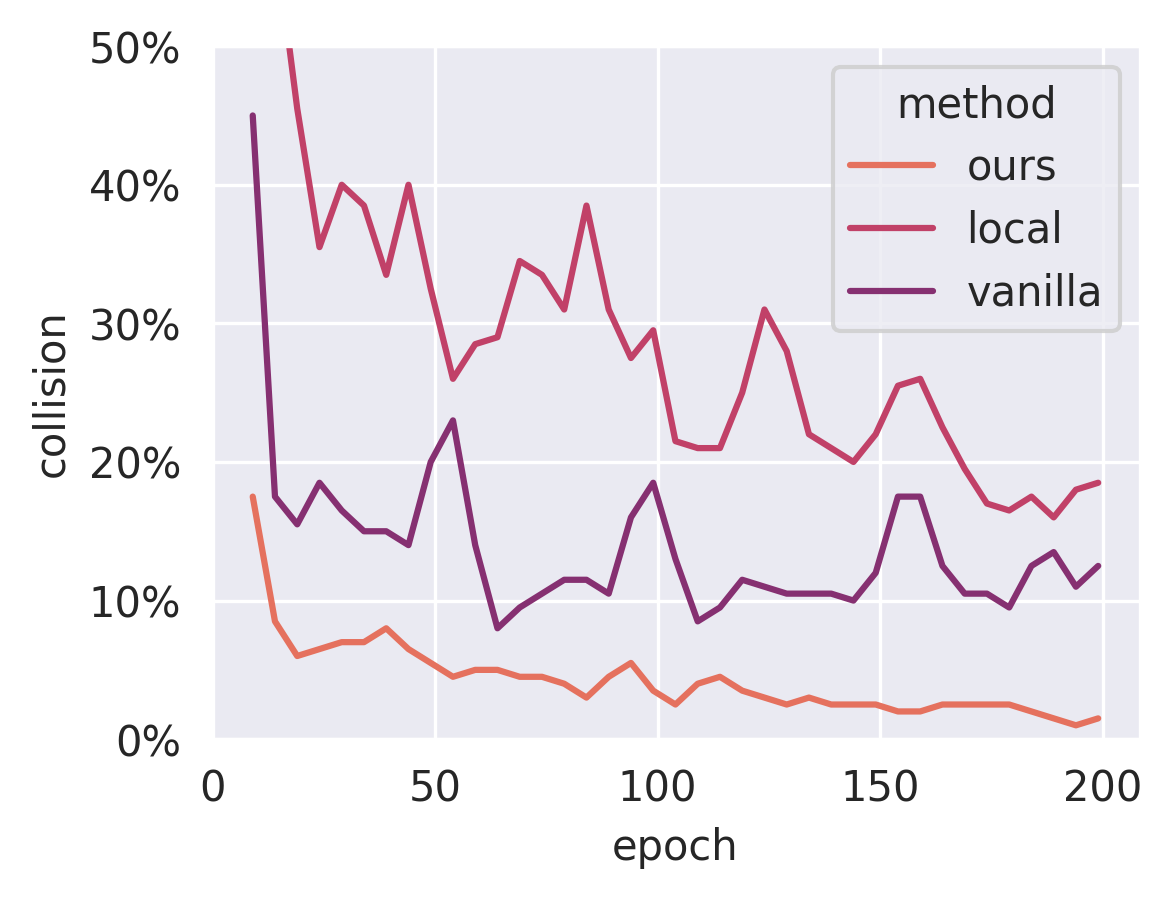
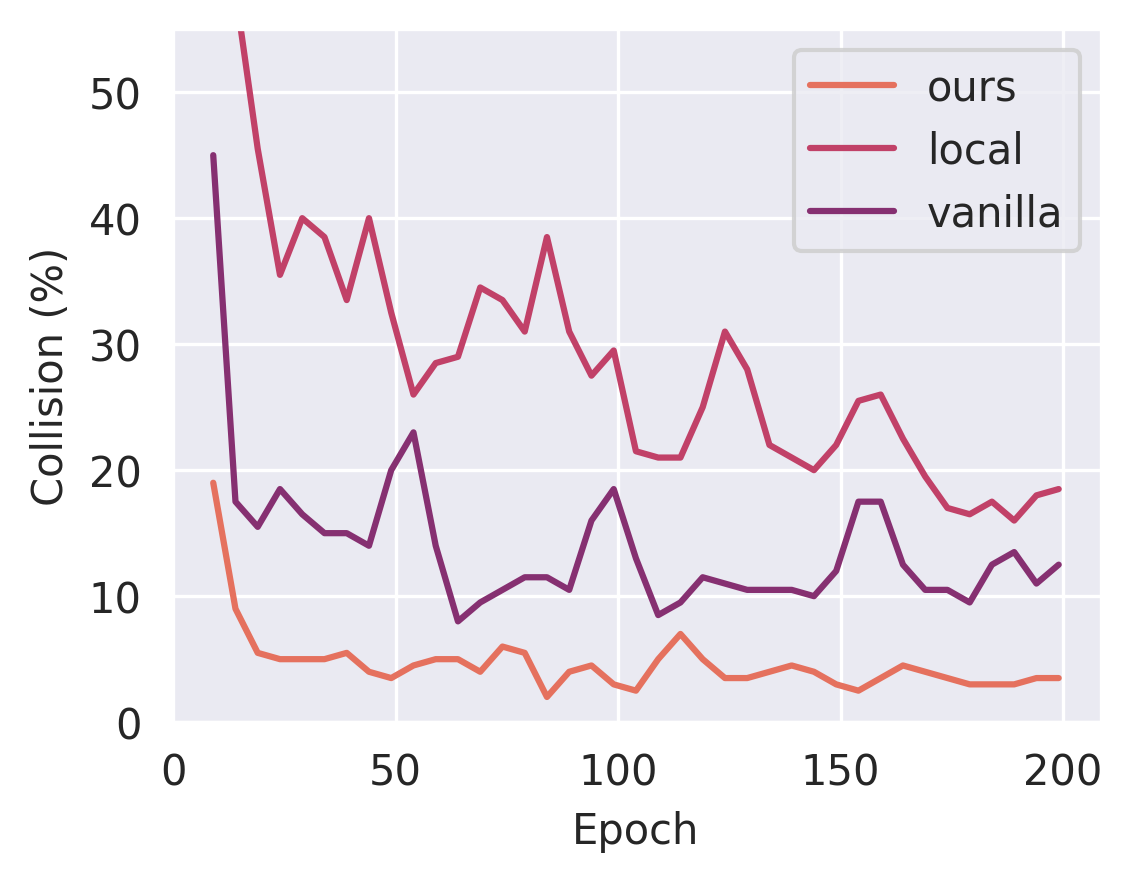
Add bash scripts

diff --git a/crowd_nav/utils/compare.py b/crowd_nav/utils/compare.py
@@ -1,0 +1,73 @@
+import argparse
+import os
+import pandas as pd
+import seaborn as sns
+import matplotlib
+matplotlib.use('Agg')
+
+
+def parse_arguments():
+    parser = argparse.ArgumentParser('Parse configuration file')
+    parser.add_argument('--foldername', type=str, default='data/output/')
+    parser.add_argument('--figtype', type=str, default='.png')
+    parser.add_argument('--ma_window', type=int, default=2)
+    return parser.parse_args()
+
+
+def extract_subfolder(foldername):
+    listfolder = [f.path for f in os.scandir(foldername) if f.is_dir()]
+    return listfolder
+
+
+def compare_curve(listdir, window):
+    df = pd.DataFrame([])
+    for subfolder in listdir:
+        df_sub = pd.read_csv(subfolder+'/test_result.txt', sep=',', skipinitialspace=True)
+        df_sub['reward_mean'] = df_sub['reward'].rolling(window).mean()
+        df_sub['collision_mean'] = df_sub['collision'].rolling(window).mean()
+        df_sub['reward_std'] = df_sub['reward'].rolling(window).std()
+        df_sub['collision_std'] = df_sub['collision'].rolling(window).std()
+        name = subfolder.split('-')[1]
+        if name == 'event': name = 'ours'
+        df_sub['method'] = name
+        df = df.append(df_sub)
+
+    sns.set_style("darkgrid")
+
+    # fig 1
+    reward_plot = sns.lineplot(
+        data=df,
+        x="epoch", y="reward_mean", hue="method",
+        markers=False, dashes=False, palette="flare"
+    )
+    reward_plot.set(xlabel='Epoch', ylabel='Reward')
+    reward_plot.legend_.set_title(None)
+
+    figname = args.foldername + 'reward' + args.figtype
+    fig = reward_plot.get_figure()
+    fig.set_size_inches(4, 3)
+    fig.savefig(figname, dpi=300, bbox_inches='tight', pad_inches=0.1)
+    fig.clear()
+
+    # fig 2
+    df['collision_mean'] *= 100
+    col_plot = sns.lineplot(
+        data=df,
+        x="epoch", y="collision_mean", hue="method",
+        markers=False, dashes=False, palette="flare"
+    )
+    col_plot.set(xlabel='Epoch', ylabel='Collision (%)')
+    col_plot.set(ylim=(0.0, 55.0), xlabel='Epoch', ylabel='Collision (%)')
+    col_plot.legend_.set_title(None)
+
+    figname = args.foldername + 'collision' + args.figtype
+    fig = col_plot.get_figure()
+    fig.set_size_inches(4, 3)
+    fig.savefig(figname, dpi=300, bbox_inches='tight', pad_inches=0.1)
+    fig.clear()
+
+
+if __name__ == "__main__":
+    args = parse_arguments()
+    subfolders = extract_subfolder(args.foldername)
+    compare_curve(subfolders, args.ma_window)

diff --git a/crowd_nav/imitate.py b/crowd_nav/imitate.py
@@ -167,7 +167,7 @@ def main():
         if args.contrast_sampling == 'local':
             suffix += "-range-{:.2f}".format(args.contrast_range)
     else:
-        suffix = "-baseline-data-{:.2f}".format(args.percent_label)
+        suffix = "-vanilla-data-{:.2f}".format(args.percent_label)
     config_path(args, suffix)
     config_log(args)
 

diff --git a/README.md b/README.md
@@ -19,8 +19,6 @@ This is a PyTorch implementation of the [Social-NCE paper](https://arxiv.org/abs
 > * Rank the **1st place** on the [Trajnet++ forecasting challenge](https://www.aicrowd.com/challenges/trajnet-a-trajectory-forecasting-challenge/leaderboards) at the time of publication
 > * SOTA on imitation / reinforcement learning for [autonomous navigation in crowds](https://github.com/vita-epfl/CrowdNav)
 
-<!-- > Learning socially-aware motion representations is at the core of recent advances in human trajectory forecasting and robot navigation in crowded spaces. Yet existing methods often struggle to generalize to challenging scenarios. In this work, we propose to address this issue via contrastive learning: (i) we introduce a social contrastive loss that encourages the encoded motion representation to preserve sufficient information for distinguishing a positive future event from a set of negative ones, (ii) we explicitly draw these negative samples based on our domain knowledge about socially unfavorable scenarios in the multi-agent context. Experimental results show that the proposed method consistently boosts the performance of previous trajectory forecasting, behavioral cloning, and reinforcement learning algorithms in various settings.  -->
-
 ### Preparation
 
 Setup environments follwoing the [SETUP.md](docs/SETUP.md)
@@ -34,22 +32,27 @@ Setup environments follwoing the [SETUP.md](docs/SETUP.md)
   ```
 * Social-NCE + Conventional Negative Sampling (Local)
   ```
-  python imitate.py --contrast_weight=0.5 --contrast_sampling='local' --gpu
-  python test.py --policy='sail' --circle --model_file=data/output/imitate-local-data-0.50-weight-0.5-horizon-4-temperature-0.20-nboundary-0-range-2.00/policy_net.pth
+  python imitate.py --contrast_weight=2.0 --contrast_sampling='local' --gpu
+  python test.py --policy='sail' --circle --model_file=data/output/imitate-local-data-0.50-weight-2.0-horizon-4-temperature-0.20-nboundary-0-range-2.00/policy_net.pth
   ```
 * Social-NCE + Safety-driven Negative Sampling (Ours)
   ```
-  python imitate.py --contrast_weight=0.5 --contrast_sampling='event' --gpu
-  python test.py --policy='sail' --circle --model_file=data/output/imitate-event-data-0.50-weight-0.5-horizon-4-temperature-0.20-nboundary-0/policy_net.pth
+  python imitate.py --contrast_weight=2.0 --contrast_sampling='event' --gpu
+  python test.py --policy='sail' --circle --model_file=data/output/imitate-event-data-0.50-weight-2.0-horizon-4-temperature-0.20-nboundary-0/policy_net.pth
+  ```
+* Method Comparison
+  ```
+  bash script/run_vanilla.sh && bash script/run_local.sh && bash script/run_snce.sh
+  python utils/compare.py
   ```
 
-### Sample Results
+### Basic Results
 
 Results of behavioral cloning with different methods.
 
-<img src="docs/collision.png" width="300"/> <img src="docs/reward.png" width="300"/> 
+<img src="docs/collision.png" height="240"/> <img src="docs/reward.png" height="240"/> 
 
-Averaged results from 150 to 200 epochs.
+Averaged results from the 150th to 200th epochs.
 
 <table><tbody>
 <!-- START TABLE -->
